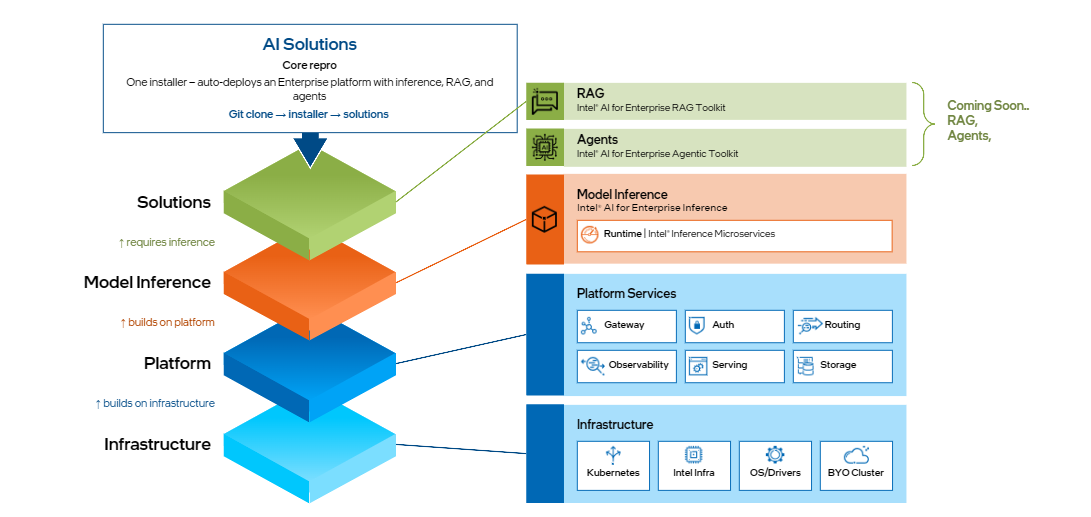
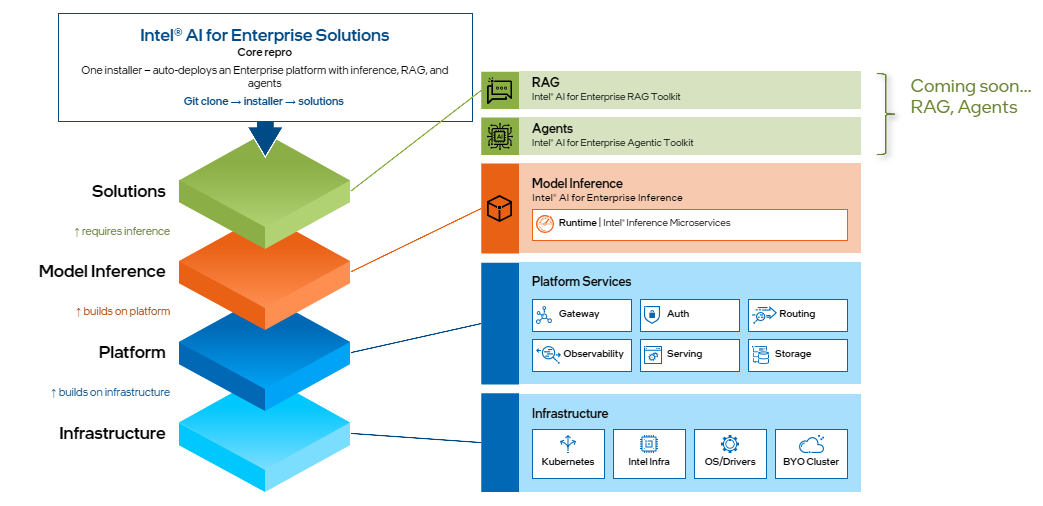
Rename product to Intel® AI for Enterprise Solutions (#2)
* docs: rename product to Intel® AI Enterprise Solutions

* docs: clarify this release delivers the inference foundation for RAG/agentic services

* docs: update solutions architecture diagram

* docs: correct product name to Intel® AI for Enterprise Solutions

---------

Changed region(s): [[0.0307, 0.0296, 0.9818, 0.9783], [0.3988, 0.2964, 0.4295, 0.3261]]

diff --git a/README.md b/README.md
@@ -1,4 +1,4 @@
-# Intel® Enterprise for AI Solutions
+# Intel® AI for Enterprise Solutions
 
 [![License: Apache 2.0](https://img.shields.io/badge/License-Apache%202.0-blue.svg)](LICENSE)
 [![Platform: Intel Xeon](https://img.shields.io/badge/Platform-Intel%C2%AE%20Xeon%C2%AE-0068B5)](https://www.intel.com/xeon)
@@ -13,17 +13,17 @@
 
 ---
 
-## What is Intel® Enterprise for AI Solutions?
+## What is Intel® AI for Enterprise Solutions?
 
 Enterprise AI needs more than a model endpoint. Teams need to connect LLM inference, RAG, and agentic workflows, along with security, routing, and observability.
 
-Intel® Enterprise for AI Solutions wires these pieces together in a pre-integrated, customizable Kubernetes stack optimized for Intel® Xeon® processors.
+Intel® AI for Enterprise Solutions wires these pieces together in a pre-integrated, customizable Kubernetes stack optimized for Intel® Xeon® processors.
 
 A single installer script, `es_auto_installer.sh`, takes bare-metal nodes through Kubernetes provisioning, platform services (networking, security, observability), model serving, and AI gateway setup — delivering a production-ready AI platform with OpenAI-compatible endpoints in one run.
 
-The end result: teams get a secured, load-balanced stack where they can immediately serve LLM models, run RAG pipelines, and monitor everything through a unified gateway. Start with defaults, then configure or extend as needed.
+The end result: teams get a secured, load-balanced inference stack with OpenAI-compatible endpoints, monitored through a unified gateway. This release delivers the inference foundation — the base on top of which RAG and agentic services can be deployed. Start with defaults, then configure or extend as needed.
 
-> Want the full picture? See [Architecture](docs/reference/architecture.md) and [Meet AI Solutions](docs/meet/meet.md).
+> Want the full picture? See [Architecture](docs/reference/architecture.md) and [Meet AI for Enterprise Solutions](docs/meet/meet.md).
 
 ## Architecture
 
@@ -38,7 +38,7 @@ The stack installs in three ordered layers, from the base up:
 **Request flow:** a request enters through the Envoy AI Gateway, is authenticated against Keycloak (or a LiteLLM virtual key), and is routed to the matching model-serving backend. Every layer's health and latency is visible in the built-in Grafana / Prometheus / Loki / Tempo stack.
 
 <p align="center">
-  <img src="docs/assets/architecture.png" alt="Intel Enterprise for AI Solutions layer diagram: infrastructure layer (Kubernetes, storage) at the base; platform layer (Istio, Envoy Gateway, PostgreSQL, Keycloak, MinIO, observability) above it; inference layer (Envoy AI Gateway, KServe, vLLM and OpenVINO Model Server) above that; and an opt-in application layer (RAG pipelines, UI, vector databases) on top, with client requests flowing through the gateway to the serving layer" />
+  <img src="docs/assets/architecture.png" alt="Intel AI for Enterprise Solutions layer diagram: infrastructure layer (Kubernetes, storage) at the base; platform layer (Istio, Envoy Gateway, PostgreSQL, Keycloak, MinIO, observability) above it; inference layer (Envoy AI Gateway, KServe, vLLM and OpenVINO Model Server) above that; and an opt-in application layer (RAG pipelines, UI, vector databases) on top, with client requests flowing through the gateway to the serving layer" />
 </p>
 
 > See the [Architecture deep-dive](docs/reference/architecture.md) for the full component list, execution flow, and cross-repo layering.
@@ -153,7 +153,7 @@ Live metrics are available in Grafana at `https://grafana.<your-domain>` — the
 
 | Keycloak — Identity & Access Management | Grafana — Inference Monitoring |
 |:---:|:---:|
-| ![Keycloak login screen for Intel Enterprise for AI Solutions, showing OIDC-based sign-in used for identity and access management](docs/assets/screenshots/keycloak-auth.png) | ![Grafana dashboard for Intel Enterprise for AI Solutions showing vLLM inference metrics: request rate, latency, time-to-first-token, and token throughput](docs/assets/screenshots/grafana-dashboard.png) |
+| ![Keycloak login screen for Intel AI for Enterprise Solutions, showing OIDC-based sign-in used for identity and access management](docs/assets/screenshots/keycloak-auth.png) | ![Grafana dashboard for Intel AI for Enterprise Solutions showing vLLM inference metrics: request rate, latency, time-to-first-token, and token throughput](docs/assets/screenshots/grafana-dashboard.png) |
 
 ---
 
@@ -184,7 +184,7 @@ Licensed under the [Apache License, Version 2.0](LICENSE).
 - [Documentation Index](docs/README.md)
 - [GitHub Repository](https://github.com/intel/enterprise-ai-solutions)
 - [Intel® Enterprise for AI Inference (inference layer)](https://github.com/intel/enterprise-inference)
-- [Meet AI Solutions](docs/meet/meet.md)
+- [Meet AI for Enterprise Solutions](docs/meet/meet.md)
 - [Architecture](docs/reference/architecture.md)
 
 ---

diff --git a/docs/meet/meet.md b/docs/meet/meet.md
@@ -30,7 +30,7 @@ Enterprise AI requires more than a model server.
 
 Teams also need Kubernetes, networking, storage, TLS, identity, model routing, observability, and workload placement. Building and integrating those layers individually can take significant engineering effort — weeks to months.
 
-AI Solutions deploys them through one environment-based workflow:
+AI for Enterprise Solutions deploys them through one environment-based workflow:
 
 ```bash
 ./es_auto_installer.sh install --all --env <name>
